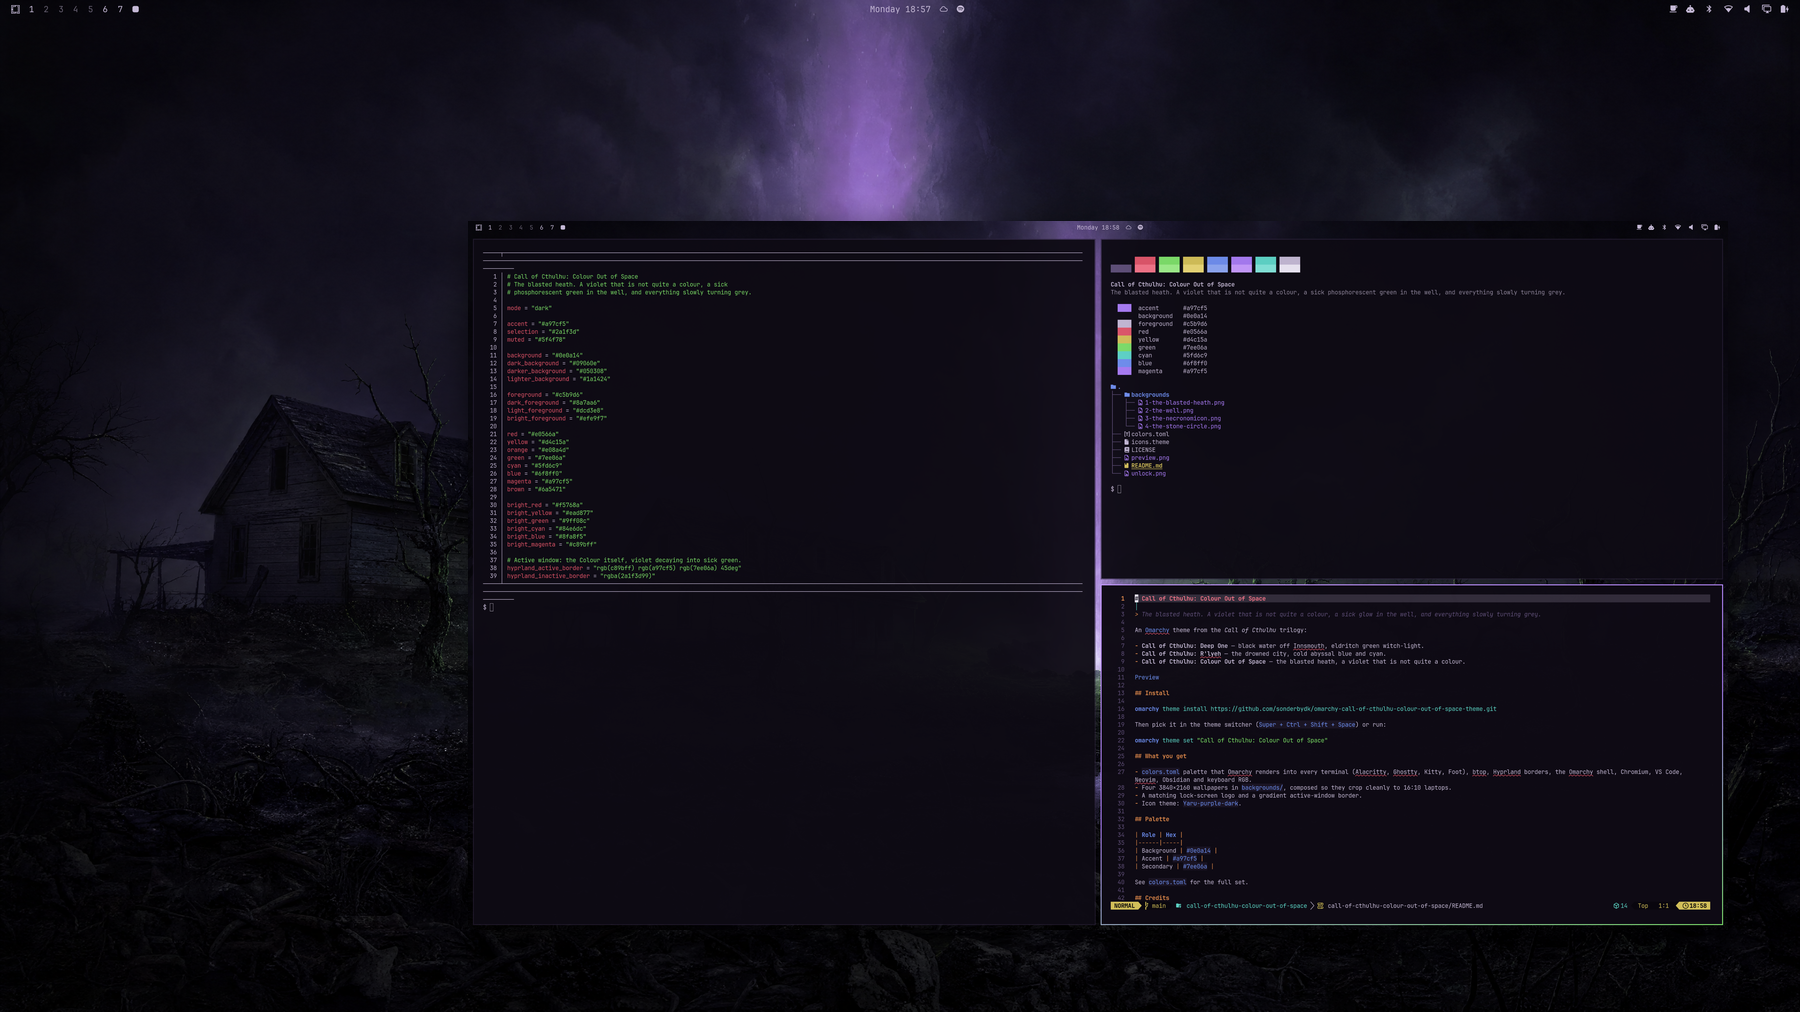
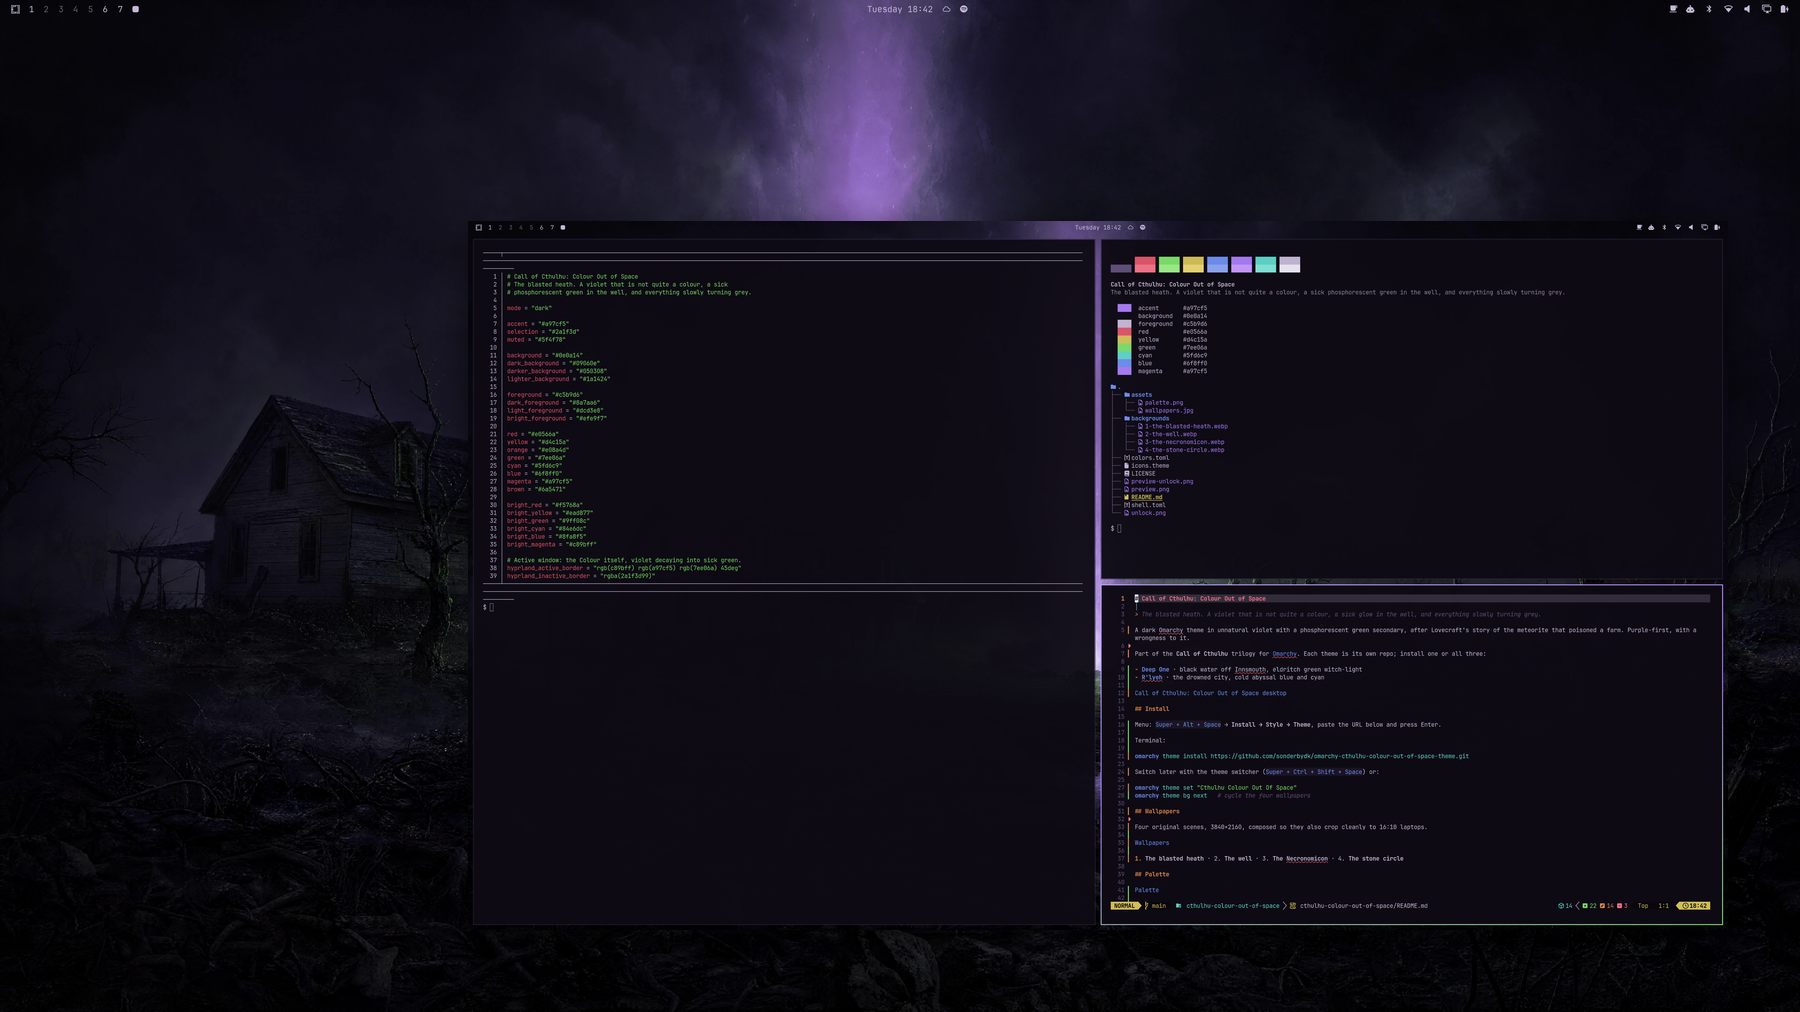
Polish for listing: shorter slug, shell.toml, richer README
Rename repo to omarchy-cthulhu-colour-out-of-space-theme so the installed name and theme-switcher
label stay short. Ship a shell.toml with a translucent bar and popups on the
dark background tone. README gains a wallpaper contact sheet, palette swatch,
lock-screen preview, the menu install route and links to the sibling themes.
Drop the unused .omarchy-theme.yml.

Claude-Session: https://claude.ai/code/session_018ps1P9xqNg9nC8Ujp9C9ip

diff --git a/README.md b/README.md
@@ -2,45 +2,64 @@
 
 > The blasted heath. A violet that is not quite a colour, a sick glow in the well, and everything slowly turning grey.
 
-An [Omarchy](https://omarchy.org) theme from the *Call of Cthulhu* trilogy:
+A dark Omarchy theme in unnatural violet with a phosphorescent green secondary, after Lovecraft's story of the meteorite that poisoned a farm. Purple-first, with a wrongness to it.
 
-- **Call of Cthulhu: Deep One** — black water off Innsmouth, eldritch green witch-light.
-- **Call of Cthulhu: R'lyeh** — the drowned city, cold abyssal blue and cyan.
-- **Call of Cthulhu: Colour Out of Space** — the blasted heath, a violet that is not quite a colour.
+Part of the **Call of Cthulhu** trilogy for [Omarchy](https://omarchy.org). Each theme is its own repo; install one or all three:
 
-![Preview](preview.png)
+- [**Deep One**](https://github.com/sonderbydk/omarchy-cthulhu-deep-one-theme) · black water off Innsmouth, eldritch green witch-light
+- [**R'lyeh**](https://github.com/sonderbydk/omarchy-cthulhu-rlyeh-theme) · the drowned city, cold abyssal blue and cyan
+
+![Call of Cthulhu: Colour Out of Space desktop](preview.png)
 
 ## Install
 
-```bash
-omarchy theme install https://github.com/sonderbydk/omarchy-call-of-cthulhu-colour-out-of-space-theme.git
-```
+Menu: `Super + Alt + Space` → **Install → Style → Theme**, paste the URL below and press Enter.
 
-Then pick it in the theme switcher (`Super + Ctrl + Shift + Space`) or run:
+Terminal:
 
 ```bash
-omarchy theme set "Call of Cthulhu: Colour Out of Space"
+omarchy theme install https://github.com/sonderbydk/omarchy-cthulhu-colour-out-of-space-theme.git
 ```
 
-## What you get
+Switch later with the theme switcher (`Super + Ctrl + Shift + Space`) or:
 
-- `colors.toml` palette that Omarchy renders into every terminal (Alacritty, Ghostty, Kitty, Foot), btop, Hyprland borders, the Omarchy shell, Chromium, VS Code, Neovim, Obsidian and keyboard RGB.
-- Four 3840×2160 wallpapers in `backgrounds/`, composed so they crop cleanly to 16:10 laptops.
-- A matching lock-screen logo and a gradient active-window border.
-- Icon theme: `Yaru-purple-dark`.
+```bash
+omarchy theme set "Cthulhu Colour Out Of Space"
+omarchy theme bg next   # cycle the four wallpapers
+```
+
+## Wallpapers
+
+Four original scenes, 3840×2160, composed so they also crop cleanly to 16:10 laptops.
+
+![Wallpapers](assets/wallpapers.jpg)
+
+1. **The blasted heath** · 2. **The well** · 3. **The Necronomicon** · 4. **The stone circle**
 
 ## Palette
+
+![Palette](assets/palette.png)
 
 | Role | Hex |
 |------|-----|
 | Background | `#0e0a14` |
+| Foreground | `#c5b9d6` |
 | Accent | `#a97cf5` |
 | Secondary | `#7ee06a` |
 
-See `colors.toml` for the full set.
+Full set in [`colors.toml`](colors.toml).
+
+## What's included
+
+- `colors.toml` — Omarchy renders it into every terminal (Alacritty, Ghostty, Kitty, Foot), btop, Hyprland borders, the shell, Chromium, VS Code, Neovim, Obsidian and keyboard RGB.
+- `shell.toml` — translucent bar so the wallpaper shows through; menus, popups and notifications sit on the deeper background tone.
+- Gradient active-window border (#a97cf5 → #7ee06a).
+- Lock screen logo in the accent colour, plus `preview-unlock.png`.
+
+![Lock screen](preview-unlock.png)
+
+- Icon theme: `Yaru-purple`.
 
 ## Credits
 
-Wallpapers generated with GPT Image 2 for this theme. Lovecraft's Mythos is public domain; the mood is all his.
-
-MIT licensed.
+Wallpapers were generated with GPT Image 2 for this theme and are released under the same MIT license as the rest of the repo. Lovecraft's Mythos is public domain; the dread is all his.
